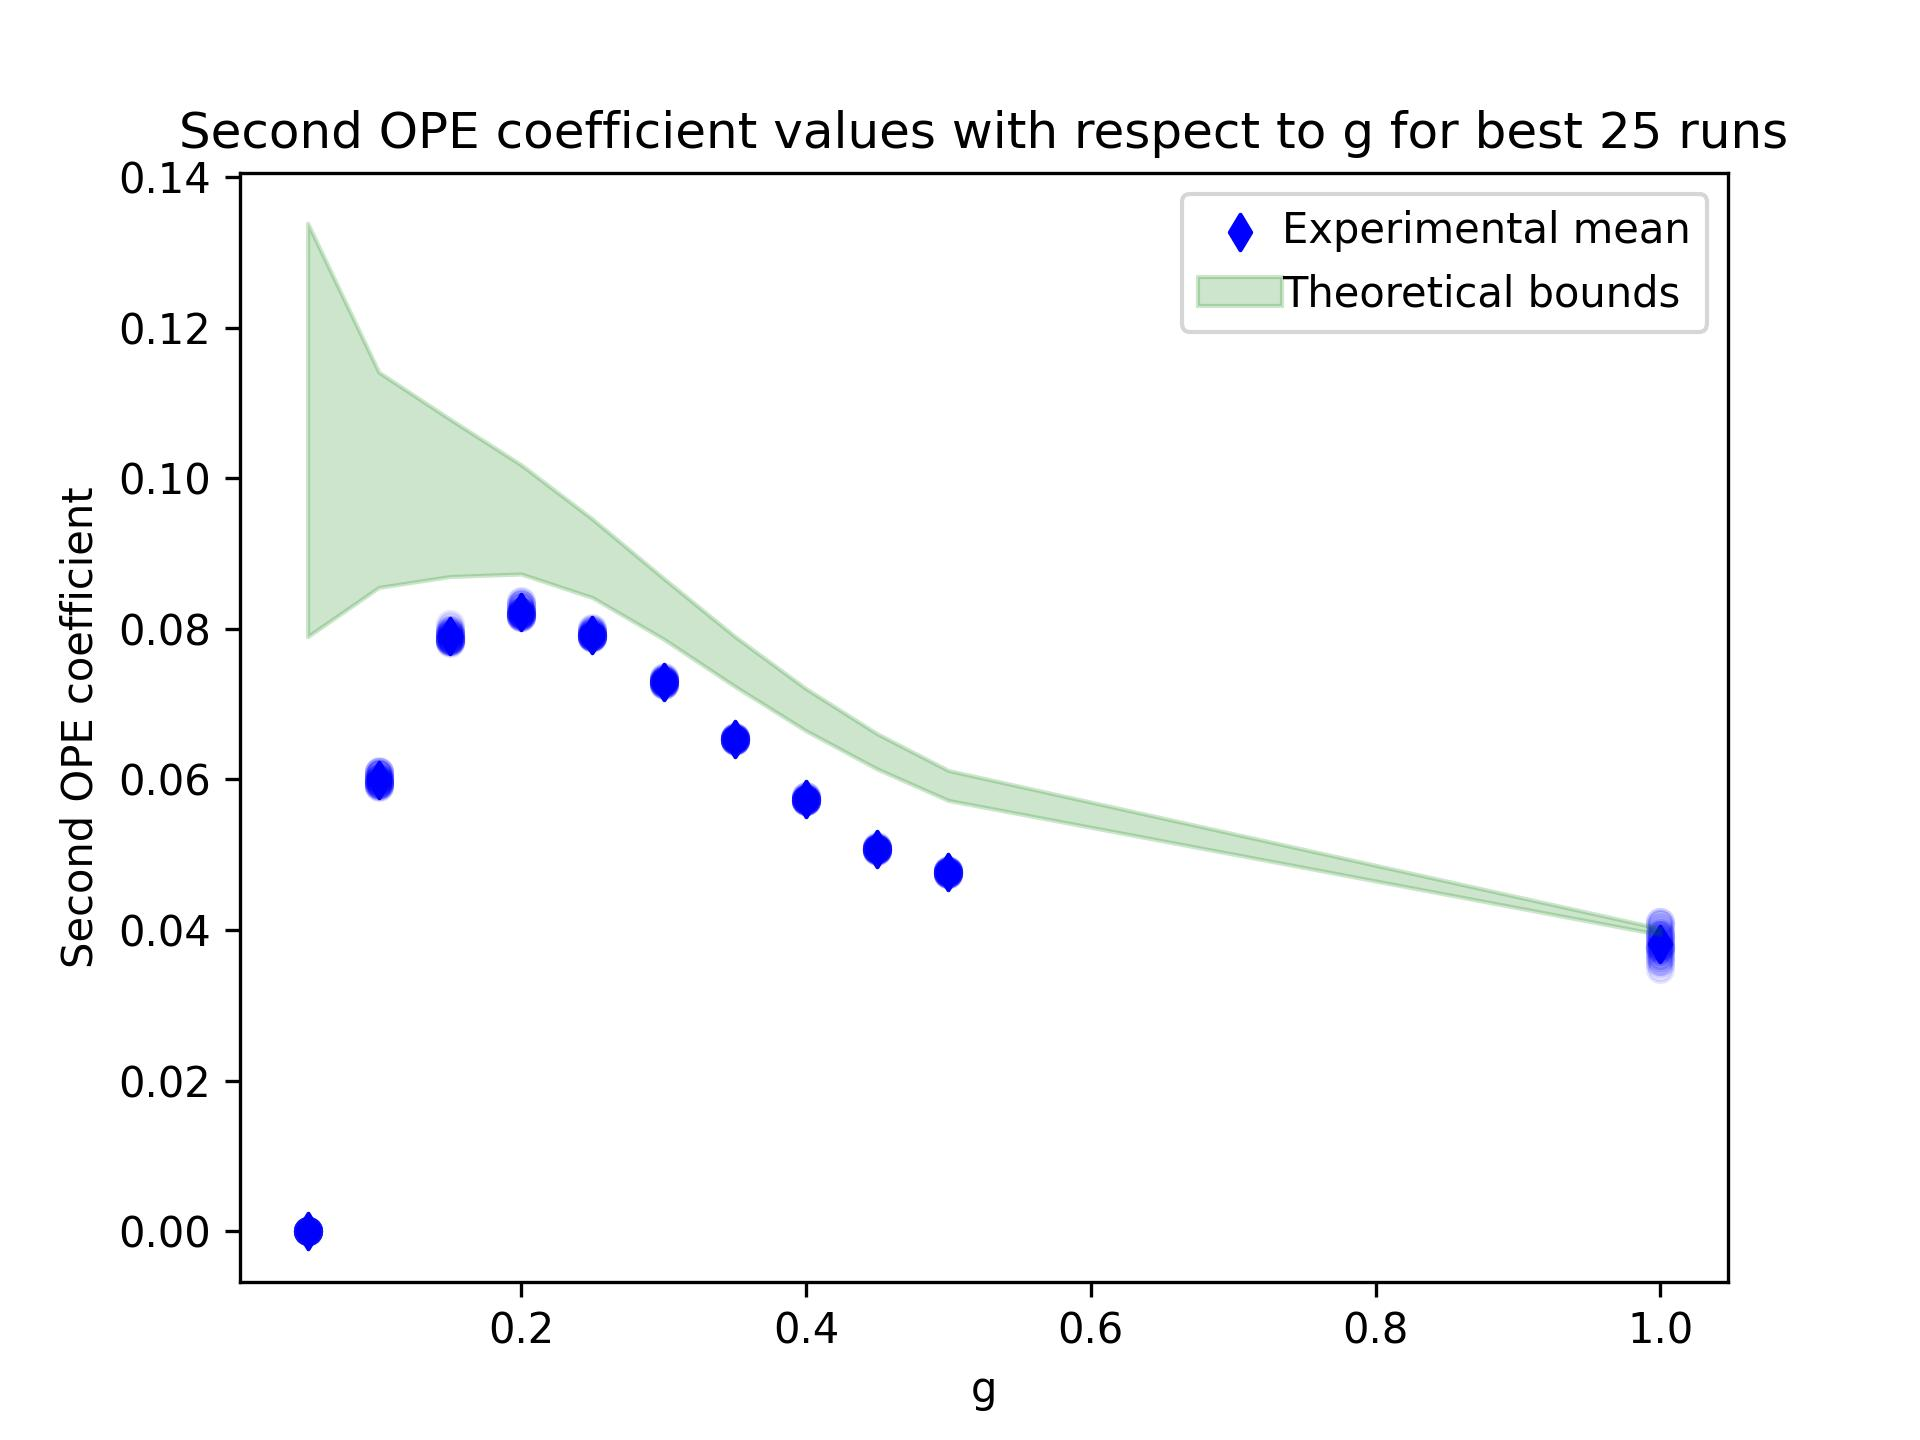
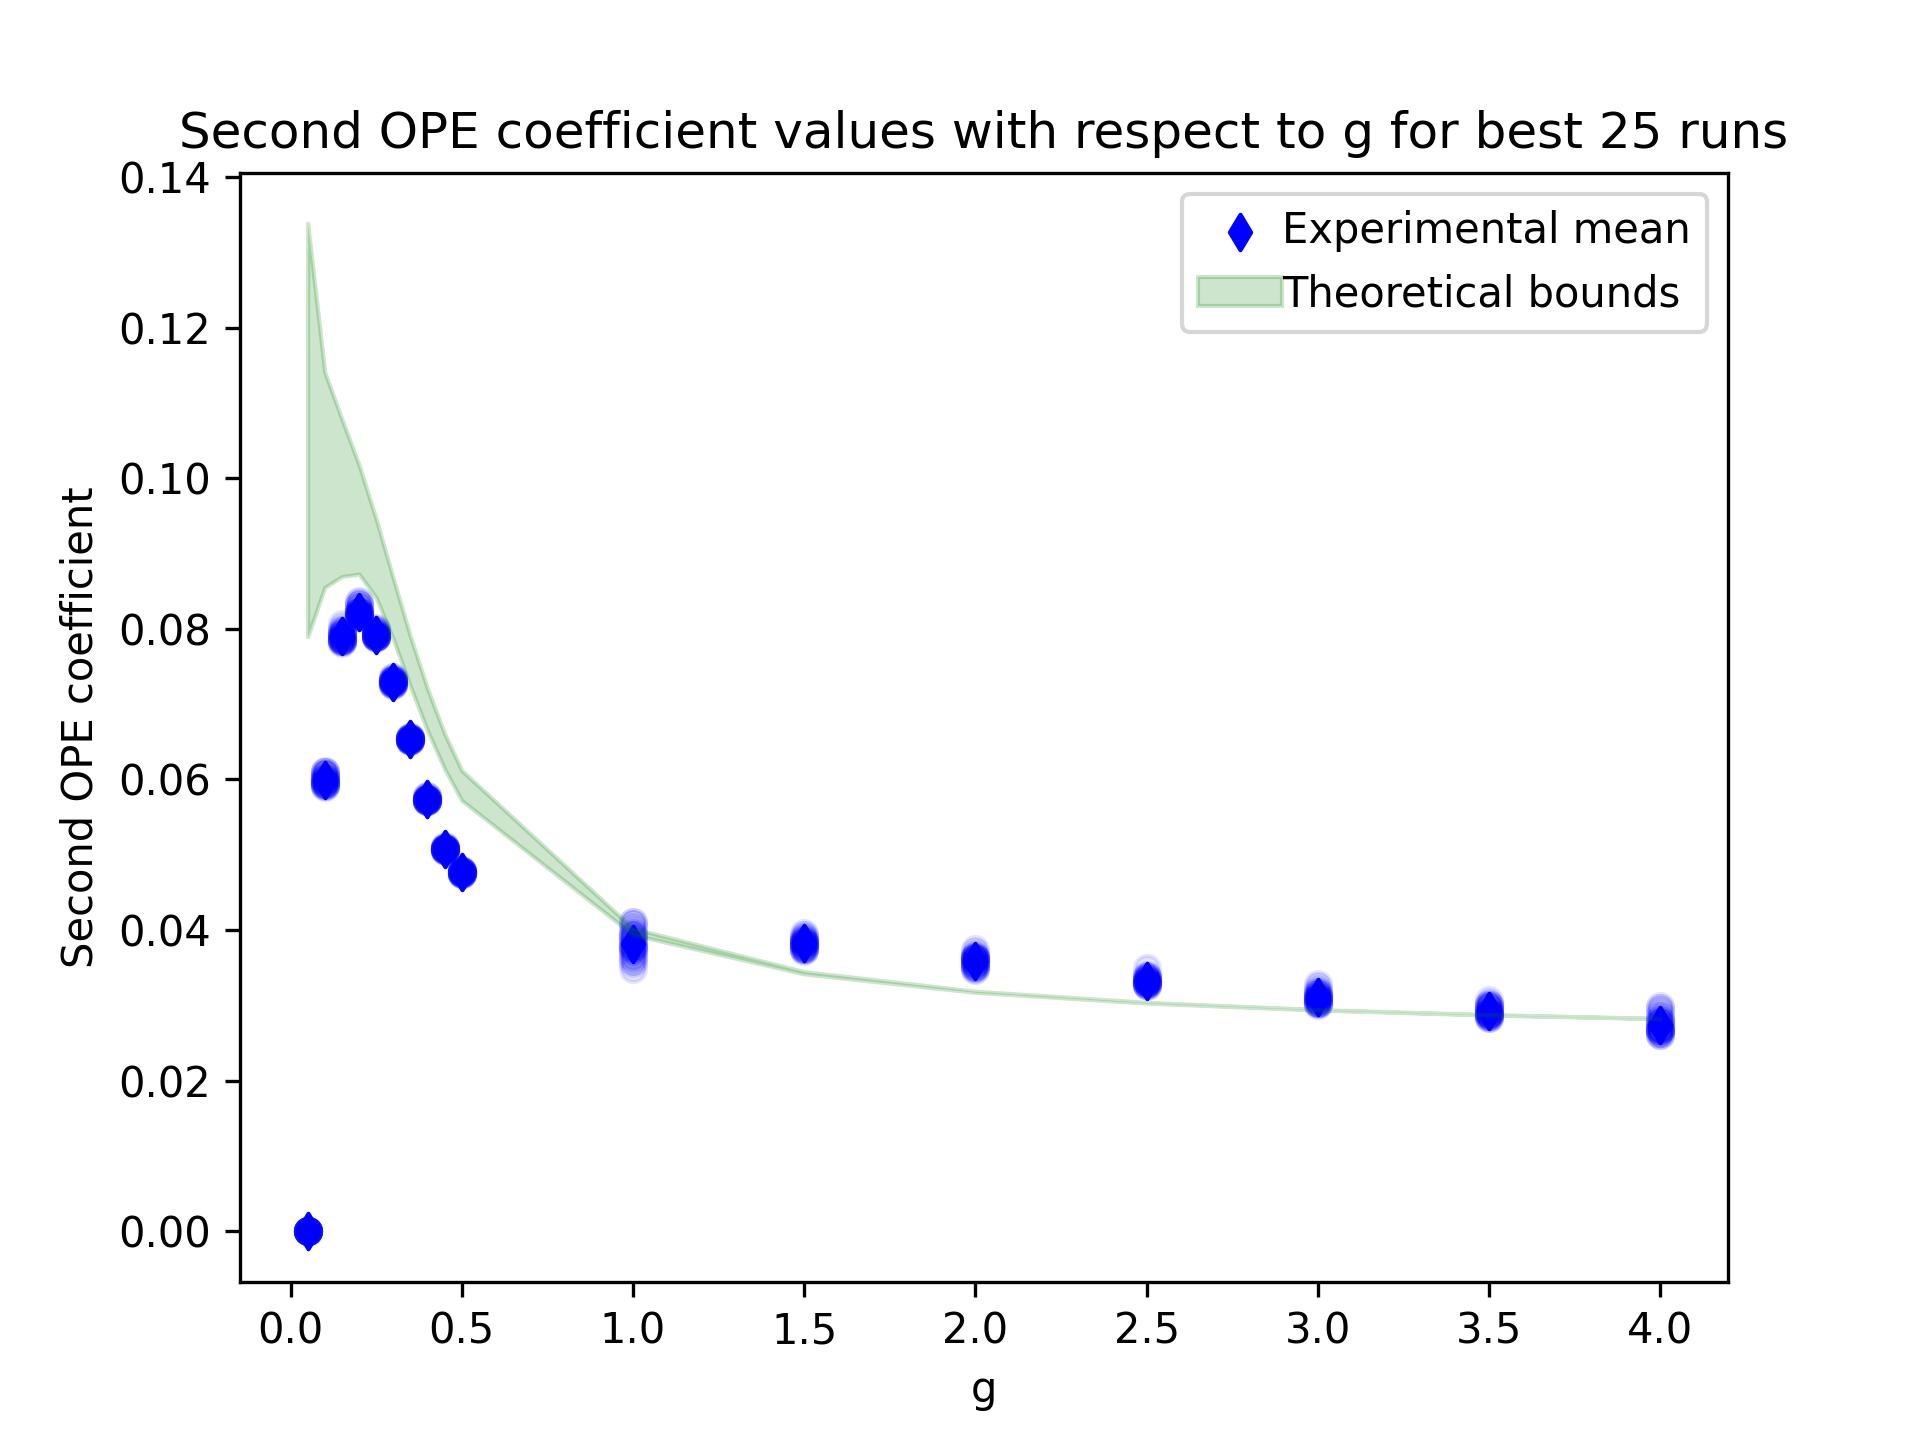
Last graph

diff --git a/analyze_BPS_results.py b/analyze_BPS_results.py
@@ -6,6 +6,7 @@ from environment.utils import output_to_file
 from ope_bounds_BPS import bounds_OPE1, bounds_OPE2, bounds_OPE3
 from matplotlib import pyplot as plt
 import values_BPS
+import seaborn as sns
 import itertools
 import os
 import re
@@ -18,7 +19,7 @@ best_reward = 0.
 delta_len = 10
 lambda_len = 10
 lambda_fix = 3
-
+analysis_path = 'BPS_analyzed_results'
 g_list = [1., 1.5, 2., 2.5, 3., 3.5, 4.]
 path_list = [
     #join('.', 'results_BPS', 'results_BPS_3fix_g05'),
@@ -48,6 +49,8 @@ def get_teor_deltas(g):
     return deltas
 
 
+if not os.path.exists(analysis_path):
+    os.makedirs(analysis_path)
 
 mean_OPE_first = np.zeros(experiments)
 mean_OPE_second = np.zeros(experiments)
@@ -57,10 +60,16 @@ std_OPE_second = np.zeros(experiments)
 std_OPE_sum = np.zeros(experiments)
 dist_OPE = np.zeros(experiments)
 
+OPE_vals = np.zeros((best_rew_to_take, experiments, lambda_len))
+OPE_m = np.zeros((lambda_len, experiments))
+OPE_s = np.zeros((lambda_len, experiments))
+rew_vals = np.zeros((experiments, best_rew_to_take))
+rew_m = np.zeros(experiments)
+rew_s = np.zeros(experiments)
+rew_best = np.zeros(experiments)
+
 
 for k, (g_el, path_el) in enumerate(zip(g_list, path_list)):
-    
-
     onlyfiles = [f for f in listdir(path_el) if isfile(join(path_el, f))]
     r = re.compile('sac[0-9]+.csv')
     onlyfiles = list(filter(r.match, onlyfiles))
@@ -92,13 +101,21 @@ for k, (g_el, path_el) in enumerate(zip(g_list, path_list)):
         currf.close()
         
     orderer = np.argsort(rewards)
+    rewards_ordered = rewards[orderer]
+    rew_vals[k,:] = rewards_ordered[-best_rew_to_take:]
+    rew_best[k] = rewards_ordered[-1]
+    rew_m[k] = np.mean(rew_vals[k,:])
+    rew_s[k] = np.std(rew_vals[k,:])
 
     OPEs_ordered = OPEs[orderer]
 
     vals = OPEs_ordered[-best_rew_to_take:]
+    OPE_vals[:,k,:] = vals
     vals_sum = vals[:, OPE_first-1] + vals[:, OPE_second-1]
     OPE_means = np.mean(vals, axis=0)
+    OPE_m[:,k] = OPE_means
     OPE_stds = np.std(vals, axis=0)
+    OPE_s[:,k] = OPE_stds
     
     teor_deltas = get_teor_deltas(g_el)
     
@@ -110,6 +127,16 @@ for k, (g_el, path_el) in enumerate(zip(g_list, path_list)):
     std_OPE_second[k] = OPE_stds[OPE_second-1]
     std_OPE_sum[k] = np.std(vals_sum)
     
+    
+### Average and best reward plotting
+sns.lineplot(x=g_list, y=rew_best, color='green', label='best run reward')
+sns.lineplot(x=g_list, y=rew_m, color='blue', label='Average reward')
+plt.fill_between(x=g_list, y1=rew_m-rew_s, y2=rew_m+rew_s, color='blue', alpha=0.2)
+plt.xlabel('Coupling constant g')
+plt.ylabel('Reward')
+plt.title(f'Best and average of top {best_rew_to_take} rewards as a function of g')
+plt.savefig(join(analysis_path, f'rewards_for_g_best{best_rew_to_take}.jpg'), dpi=300)
+plt.close()
 
 plt.figure()
 plt.scatter(x=dist_OPE, y=std_OPE_first/mean_OPE_first, color='blue')
@@ -118,7 +145,7 @@ for i in range(len(g_list)):
 plt.ylabel('Standard deviation/mean')
 plt.xlabel(f'Distance between delta_{OPE_first} and delta_{OPE_second}')
 plt.title(f'Percentage error w.r.t. distance best {best_rew_to_take} rewards, OPE{OPE_first}')
-plt.savefig(join('BPS_analyzed_uncertainty', f'uncertainty_analysis_OPE{OPE_first}_on_OPE{OPE_second}_best{best_rew_to_take}.jpg'), dpi=300)
+plt.savefig(join(analysis_path, f'uncertainty_analysis_OPE{OPE_first}_on_OPE{OPE_second}_best{best_rew_to_take}.jpg'), dpi=300)
 
 plt.figure()
 plt.scatter(x=dist_OPE, y=std_OPE_second/mean_OPE_second, color='blue')
@@ -127,7 +154,7 @@ for i in range(len(g_list)):
 plt.ylabel('Standard deviation/mean')
 plt.xlabel(f'Distance between delta_{OPE_first} and delta_{OPE_second}')
 plt.title(f'Percentage error w.r.t. distance best {best_rew_to_take} rewards, OPE{OPE_second}')
-plt.savefig(join('BPS_analyzed_uncertainty', f'uncertainty_analysis_OPE{OPE_second}_on_OPE{OPE_first}_best{best_rew_to_take}.jpg'), dpi=300)
+plt.savefig(join(analysis_path, f'uncertainty_analysis_OPE{OPE_second}_on_OPE{OPE_first}_best{best_rew_to_take}.jpg'), dpi=300)
 
 plt.figure()
 plt.scatter(x=dist_OPE, y=std_OPE_sum/mean_OPE_sum, color='blue')
@@ -136,4 +163,44 @@ for i in range(len(g_list)):
 plt.ylabel('Standard deviation/mean')
 plt.xlabel(f'Distance between delta_{OPE_first} and delta_{OPE_second}')
 plt.title(f'Percentage error w.r.t. distance best {best_rew_to_take} rewards, OPE{OPE_first}+OPE{OPE_second}')
-plt.savefig(join('BPS_analyzed_uncertainty', f'uncertainty_analysis_sum_OPE{OPE_first}_OPE{OPE_second}_best{best_rew_to_take}.jpg'), dpi=300)
+plt.savefig(join(analysis_path, f'uncertainty_analysis_sum_OPE{OPE_first}_OPE{OPE_second}_best{best_rew_to_take}.jpg'), dpi=300)
+
+for oper in range(lambda_fix, lambda_len):
+    fig, ax = plt.subplots()
+    ### Average plot
+    # Initialize the figure
+    ax = sns.pointplot(
+        x=g_list, y=OPE_m[oper,:], color='orange',
+        join=False, dodge=.8 - .8 / 3,
+        markers="d", scale=.75, errorbar=None, label='Experimental mean', ax=ax
+    )
+    x_coords = []
+    y_coords = []
+    for point_pair in ax.collections:
+        for x, y in point_pair.get_offsets():
+            x_coords.append(x)
+            y_coords.append(y)
+    ax.errorbar(x_coords, y_coords, yerr=OPE_s[oper,:],
+        color='orange', fmt=' ', zorder=1)
+    # Show each observation with a scatterplot
+    for j in range(experiments):
+        sns.stripplot(
+            x=j*np.ones(best_rew_to_take), y=OPE_vals[:,j,oper], color='blue',
+            dodge=True, alpha=.25, zorder=-1, legend=False
+        )
+    # Show the conditional means, aligning each pointplot in the
+    # center of the strips by adjusting the width allotted to each
+    # category (.8 by default) by the number of hue levels
+    plt.legend()
+    # Improve the legend
+    sns.move_legend(
+        ax, loc="upper right", ncol=1, frameon=True, columnspacing=1, handletextpad=0
+    )
+    plt.xlabel('Coupling constant g')
+    plt.ylabel('OPE coefficient')
+    #plt.yscale('log')
+    plt.title(f'{oper}-th OPE coefficient on best {best_rew_to_take} runs, {lambda_fix} coefficient fixed')
+    plt.savefig(join(analysis_path, f'OPE{oper+1}_analysis_best{best_rew_to_take}.jpg'), dpi=300)
+
+    #plt.show()
+    plt.close()

diff --git a/analyze_BPS_bounds.py b/analyze_BPS_bounds.py
@@ -18,7 +18,7 @@ lambda_fix = 1
 rew_to_take = 25
 
 
-g_list = np.array([0.05, 0.1, 0.15, 0.2, 0.25, 0.3, 0.35, 0.4, 0.45, 0.5, 1.])
+g_list = np.array([0.05, 0.1, 0.15, 0.2, 0.25, 0.3, 0.35, 0.4, 0.45, 0.5, 1., 1.5, 2., 2.5, 3., 3.5, 4.])
 g_indexes = np.zeros(len(g_list), dtype=np.int32)
 gs = np.concatenate((np.arange(start=0.01, stop=0.25, step=0.01),
                      np.arange(start=0.25, stop=4.05, step=0.05),
@@ -44,7 +44,12 @@ path_list = [
     join('.', 'results_BPS', 'results_BPS_1fix_g045'),
     join('.', 'results_BPS', 'results_BPS_1fix_g05'),
     join('.', 'results_BPS', 'results_BPS_1fix_g1'),
-    #join('.', 'results_BPS', 'results_BPS_1fix_g15')
+    join('.', 'results_BPS', 'results_BPS_1fix_g15'),
+    join('.', 'results_BPS', 'results_BPS_1fix_g2'),
+    join('.', 'results_BPS', 'results_BPS_1fix_g25'),
+    join('.', 'results_BPS', 'results_BPS_1fix_g3'),
+    join('.', 'results_BPS', 'results_BPS_1fix_g35'),
+    join('.', 'results_BPS', 'results_BPS_1fix_g4')
 ]
 experiments = len(path_list)
 
